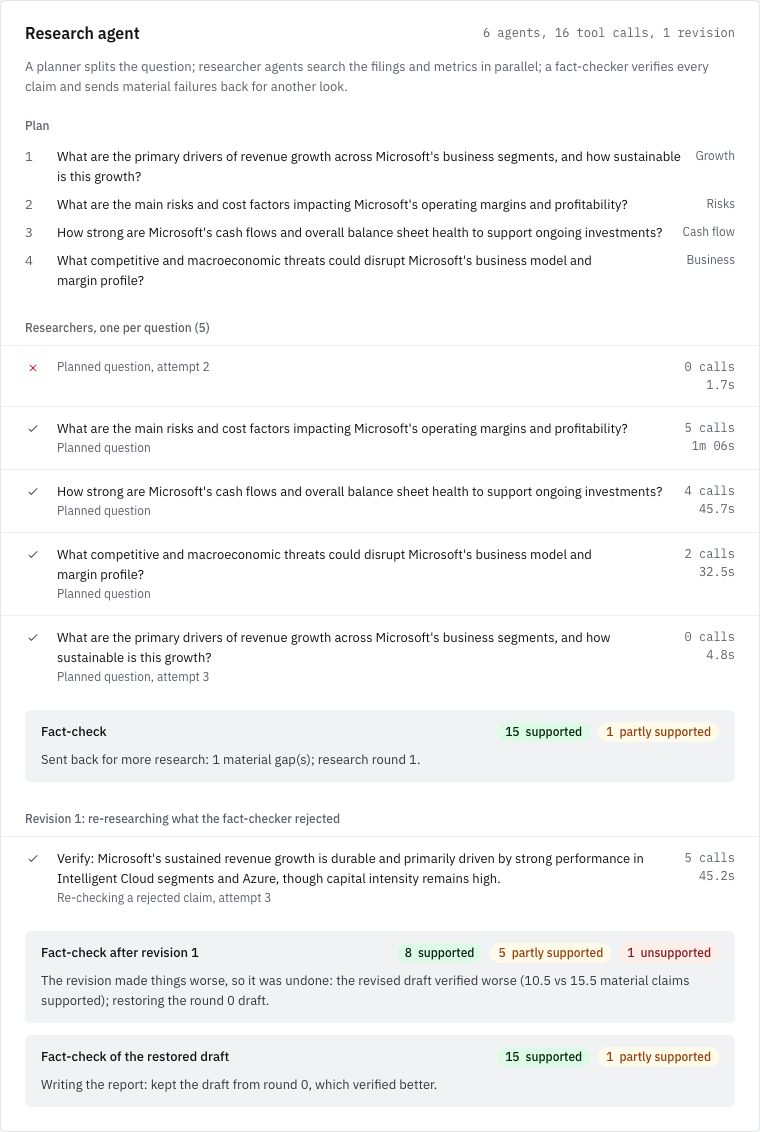
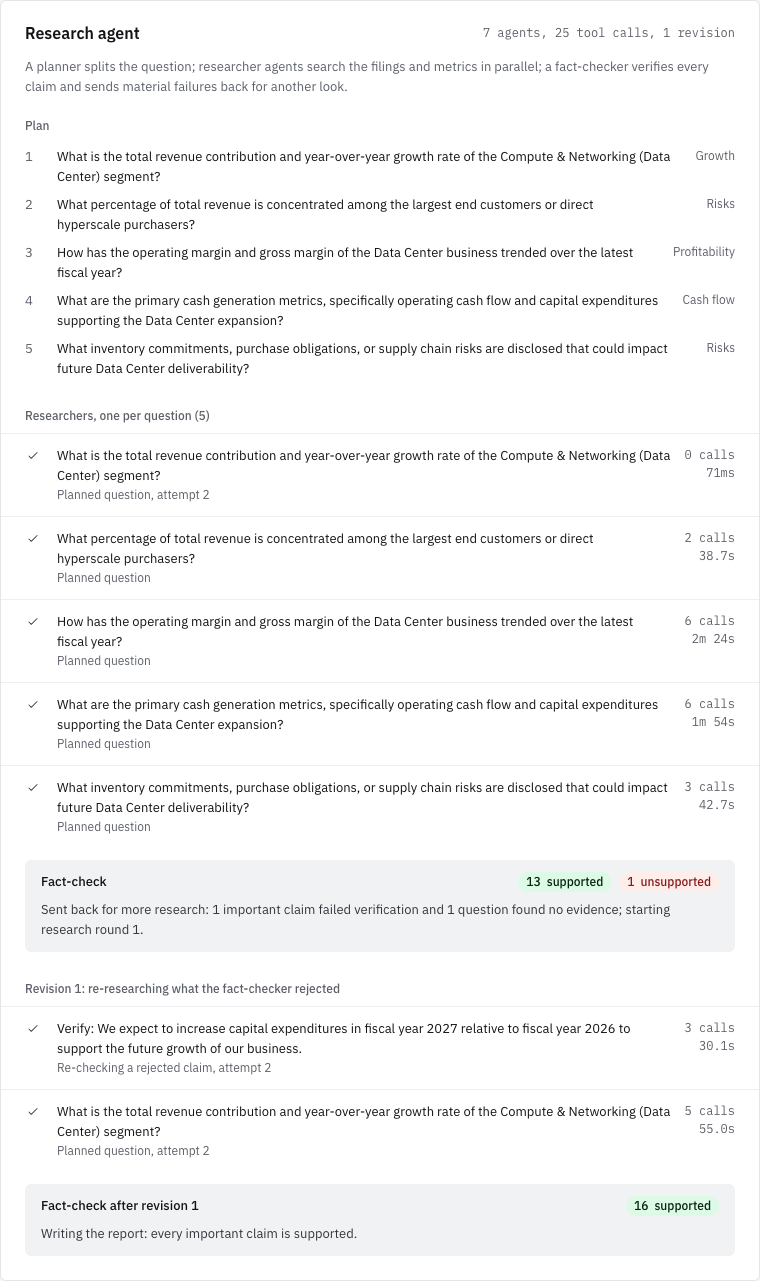
docs: NVDA live run (self-correction fixed every claim); UI marks empty-handed researchers

diff --git a/frontend/src/components/AgentActivity.tsx b/frontend/src/components/AgentActivity.tsx
@@ -53,6 +53,11 @@ function Lane({ researcher }: { researcher: Researcher }) {
             <span className="block text-small text-muted">
               {researcher.kind === "gap" ? "Re-checking a rejected claim" : "Planned question"}
               {researcher.attempt > 1 && `, attempt ${researcher.attempt}`}
+              {researcher.status === "completed" && researcher.notes === 0 && (
+                <span className="text-[var(--pill-negative-ink)]">
+                  {researcher.tool_calls.length === 0 ? ", answered without the filings (discarded)" : ", found no usable evidence"}
+                </span>
+              )}
             </span>
           </span>
           <span className="num text-right text-small text-muted">

diff --git a/docs/STATUS.md b/docs/STATUS.md
@@ -11,6 +11,7 @@ against real external services; **proposed** = not built.
 | Test suite: 164 tests (plus 1 opt-in model test) on an isolated `finresearch_test` database | `python -m pytest`; `-m model` for the real reranker |
 | Research agent (ADR 0008): LangGraph plan → parallel tool-using researchers (`Send`) → draft → verify → code critic → bounded revision → synthesize; Postgres checkpointer inside the durable queue. Tested: fan-out and merge, revision loop bounded, a worse revision restored, resume after a 429 without re-running finished researchers, cancel mid-research, tool-less answers discarded, invented handles dropped | `tests/integration/test_research_agent.py`, `test_agent_tools.py` |
 | Agent on live data: MSFT completed through three Gemini 503 attempts, resuming the graph each time (finished researchers not repeated); the revision verified worse and the critic restored the better draft. Final: 15/16 supported, 100% quotes verbatim, 100% numbers match | `python -m backend.evals.citations auto 167fb858-…`; `/research/{id}/trace` |
+| Agent self-correction on live data: NVDA's critic sent one unsupported claim and one empty-handed question back; after the revision all 16 claims were supported (100% quotes, 100% numbers), in 4 min 47 s | `/research/cb8b23ad-…/trace` |
 | Ask the analyst: tool-using follow-up agent; citations checked against the filing (live: 2 of 2 quotes verified on MSFT); 429 at the turn cap, 503 with Retry-After when the provider is busy, question + answer committed together | `tests/integration/test_analyst_chat.py`, playwright-cli session |
 | Agent trace UI (job page) and chat sheet (report) in the browser at 1440 and 390, zero console errors | playwright-cli, `docs/screenshots/agent-trace.png`, `analyst-chat.png` |
 | Retrieval quality: tuned hybrid + MiniLM rerank vs the original hybrid on a 30-question gold set: R@1 0.567→0.733, R@3 0.800→0.900, MRR 0.706→0.811, nDCG@6 0.528→0.626 (ADR 0007) | `python -m backend.evals.retrieval` |

diff --git a/README.md b/README.md
@@ -13,14 +13,14 @@ recommends buying or selling.
 
 ## Tour
 
-Real research on Amazon, Microsoft and Apple filings, run end to end through the app.
+Real research on Amazon, Microsoft and NVIDIA filings, run end to end through the app.
 
 | | |
 | --- | --- |
 | ![Overview](docs/screenshots/overview.png) | ![Live job](docs/screenshots/job-live.png) |
 | **Overview.** What's running and what's ready; ⌘K searches every company, report and job. | **Live job.** Ten checkpointed stages with typical durations; leave and come back any time. |
 | ![Research agent](docs/screenshots/agent-trace.png) | ![Ask the analyst](docs/screenshots/analyst-chat.png) |
-| **Research agent.** The plan, every researcher's tool calls, and the fact-checker's decisions. Here a revision verified worse, so the agent undid it. | **Ask the analyst.** Follow-up questions answered by a tool-using agent; each cited quote is checked against the filing. |
+| **Research agent.** The plan, every researcher's tool calls, and the fact-checker's decisions. Here it sent a failed claim and an empty-handed question back for another round, and all 16 claims ended up supported. | **Ask the analyst.** Follow-up questions answered by a tool-using agent; each cited quote is checked against the filing. |
 | ![Report](docs/screenshots/report.png) | ![Claim inspector](docs/screenshots/claim-inspector.png) |
 | **Report.** The answer first, then summary, financials, scenarios, risks and the evidence ledger. | **Claim inspector.** Every claim opens to the filing passage with the quoted words highlighted. |
 | ![Company workspace](docs/screenshots/company.png) | ![Phone](docs/screenshots/phone-report.png) |

diff --git a/docs/adr/0008-langgraph-research-agent.md b/docs/adr/0008-langgraph-research-agent.md
@@ -140,6 +140,7 @@ needed.
 | Job | What happened | Final claims | Quotes verbatim | Numbers match |
 | --- | --- | --- | --- | --- |
 | MSFT | Gemini 503s during research across 3 attempts: each retry resumed the graph and re-ran only the unfinished researcher (q2-q4 ran once). Revision verified worse (10.5 vs 15.5 material claims supported), so the critic restored round 0 | 15 supported, 1 partly | 100% | 100% |
+| NVDA | One researcher answered without a tool call (discarded); the critic sent that question and one unsupported claim back. Round 1 researched both, and every claim verified. 4 min 47 s | 16 supported | 100% | 100% |
 | AAPL (before the restore guard) | All strong models rate-limited at redraft time; the lite fallback dropped every quote and supported claims fell from 17 to 7. This run is why the restore guard exists | 7 supported, 8 unsupported | 0% | 100% |
 
 Two more lessons from these runs became code and tests:
